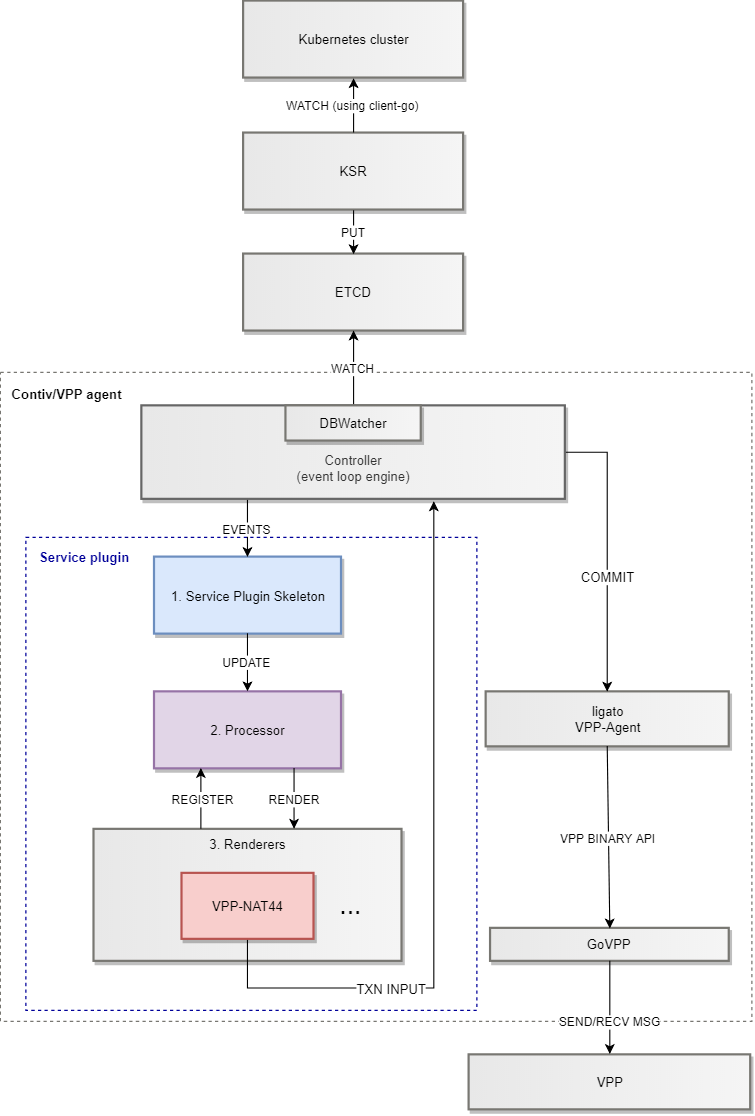
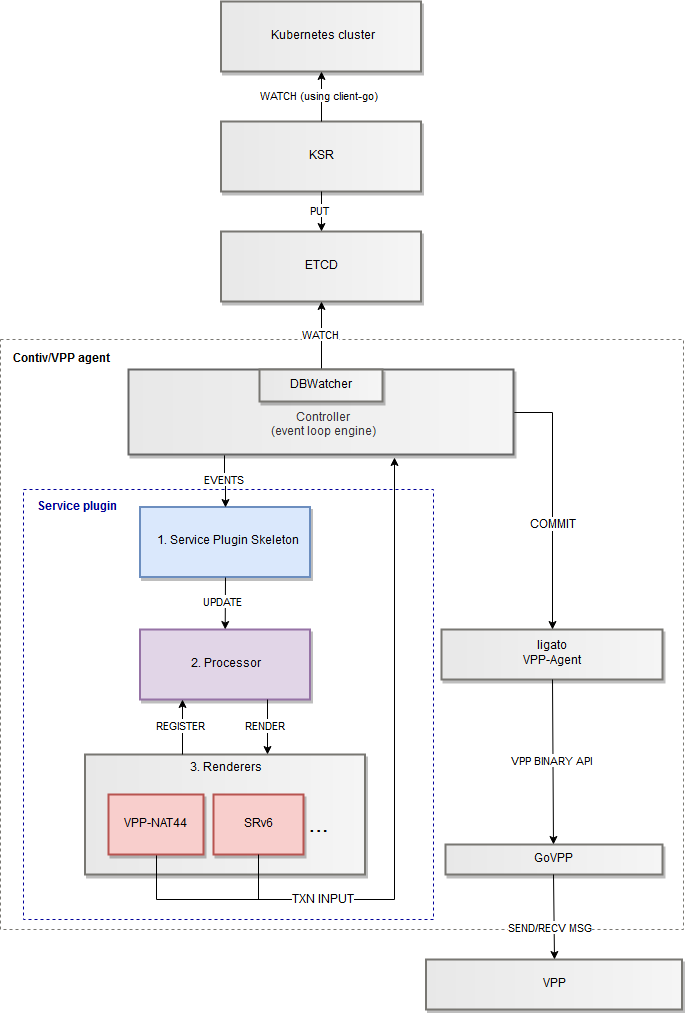
added documentation to SRv6 renderer

diff --git a/docs/dev-guide/SERVICES.md b/docs/dev-guide/SERVICES.md
@@ -376,25 +376,25 @@ bottom of the stack a set of NAT rules is calculated and installed into the VPP
 by the Ligato/vpp-agent.
 
 The Service plugin consists of two components: the Policy Processor that matches
-service metadata with endpoints and the NAT44 Renderer that maps service
-data received from the Processor into [protobuf-modelled][nat-model] NAT44
-configuration for the Ligato/vpp-agent to install in the VPP.
+service metadata with endpoints and the Renderer (NAT44 or SRv6) that maps service
+data received from the Processor into configuration ( [protobuf-modelled][nat-model] 
+NAT44 or [protobuf-modelled][srv6-model] SRv6) for the Ligato/vpp-agent to install 
+in the VPP.
 
-The plugin, however, is not restricted to VPP-NAT based implementation
+The plugin, however, is not restricted to VPP-NAT/SRv6 based implementation
 of Kubernetes services. The southbound of the processor is connected to
 the northbound of the renderer(s) via a generic [renderer API][renderer-api].
 The interface allows to have alternative and/or complementary Kubernetes service
-implementations via one or multiple plugged renderers. For example, in the near
-future it is planned to support both IPv4 and IPv6 protocols. For services,
-the two protocols could be handled separately by two different renderers.
-Similarly, the set of supported vswitches in the data plane could be extended
-simply by adding new renderers for services and policies. Another use-case is
-to provide alternative implementation of Kubernetes services for the same
-stack - one being the default, others possibly experimental or tailor-made for
-specific applications. The set of renderers to be activated can be configurable
-or determined from the environment. Every active renderer is given the same set
-of data from the processor and it is up to them to split the input and produce
-a complementary output. Currently, the NAT44 Renderer is the only implementation
+implementations via one or multiple plugged renderers. For example, NAT44 handles
+IPv4 protocol and SRv6 handles IPv6 protocol.Similarly, the set of supported 
+vswitches in the data plane could be extended simply by adding new renderers 
+for services and policies. Another use-case is to provide alternative 
+implementation of Kubernetes services for the same stack - one being the default, 
+others possibly experimental or tailor-made for specific applications. The set of 
+renderers to be activated can be configurable or determined from the environment. 
+Every active renderer is given the same set of data from the processor and it is 
+up to them to split the input and produce a complementary output. Currently, 
+the NAT44 Renderer(for IPv4) and SRv6 (for IPv6) are the only implementations 
 of Renderer API shipped with the plugin.
 
 The Renderer API defines server as an instance of `ContivService` - a structure
@@ -412,7 +412,7 @@ The [Service Plugin Skeleton][service-plugin-skeleton] implements the
 [Ligato plugin API][cn-infra], which makes it pluggable with the Ligato
 CN-Infra framework.
 
-Inside the Service Plugin's `Init()` method both Processor and NAT44 Renderer
+Inside the Service Plugin's `Init()` method both Processor and Renderer
 are initialized and dependency injection is performed - at the very minimum,
 every layer must depend on at least the layer below so that it can pass
 transformed data further down the stack.
@@ -420,7 +420,7 @@ transformed data further down the stack.
 Additionally, the plugin itself is an [event handler][event-handler], registered
 into the main [event loop][event-loop-guide] of the Contiv agent *after* the
 [ipnet plugin][ipnet-plugin]. This ensures that connectivity between pods
-and the VPP is established before any NAT rules are installed.
+and the VPP is established before any Renderer configuration is installed.
 
 The Service plugin reads the state of 2 Kubernetes [resources][db-resources]
 reflected into `etcd` by KSR and delegated to the plugin by resync and
@@ -504,6 +504,140 @@ periodically cleaning up inactive NAT sessions.
 
 ![NAT configuration example][nat-configuration-diagram]
 
+#### SRv6 Renderer
+
+The SRv6 Renderer maps `ContivService` instances into the corresponding [SRv6 model][srv6-model]
+instances that are then installed into VPP by the Ligato/vpp-agent. The SRv6 is 
+Segment routing on IPv6 protocol (see [srv6][srv6-ietf]), therefore you must enable 
+the [IPv6 support][ipv6-setup] in Contiv to be able to use the SRv6 renderer. Also you must enable
+it in `manifest.yaml` together with noOverlay mode:
+```
+apiVersion: v1
+kind: ConfigMap
+metadata:
+  name: contiv-agent-cfg
+  namespace: kube-system
+data:
+  contiv.conf: |-
+    useNoOverlay: true
+    useSRv6Interconnect: true
+    ...
+```
+`manifest.yaml` file is generated by Helm, so you can alternatively change the helm template 
+input values in [values.yaml][values.yaml] (or [values-arm64.yaml][values-arm64.yaml])
+```
+...
+contiv:
+  useNoOverlay: false
+  useSRv6Interconnect: false
+  ...
+```  
+and generate `manifest.yaml` with Helm.
+
+
+The basic idea behind segment routing is to cut the packet route into smaller routes, called segments. 
+The SRv6 implementation of service will use these segments to properly route packet to service backends.
+The packet flow looks like this:
+![srv6-renderer-communication-from-pod][srv6-renderer-communication-from-pod]
+  
+The user of service is pod 1. The packet with destination of the service IP address is steered into the SRv6 
+policy. The policy contains 1 path (list of segments) to each backend. The weighted loadbalancing happens 
+(all routes have equal waight) and one segment list is used. 
+- if pod 2 on node 1 is choosen:  
+The route consists only of one segment, the segment with segment id starting with 6666 (segment id is an ipv6 address). 
+The IPv6 routing forwards the packet to the segment end (LocalSid-DX6) that decapsulates the packet (it was encapsulated in the policy, think of it as tunnel)
+and crossconnect it to the interface to pod 2 (using IPv6 as next hop) 
+- if the host backend on node 1 is choosen:  
+Basically the same, but IPv6 routing forwards it to different place where LocalSid is located.  
+- if pod2 on node 2 is choosen:  
+The route consists of 2 segments. The first segment will transport the packet to correct node 
+(segment end in Localsid-End), but the segment end will not decapsulate packet but route it 
+to the next segment end. The second segment end will decapsulate the packet and route it to the correct
+backend pod as in previous case.
+- if the host on node 2 is choosen:  
+Similar to previous cases.
+
+Special case for SRv6 service is when service is used from host:
+![srv6-renderer-communication-from-host][srv6-renderer-communication-from-host]
+
+The loadbalancing is not done by using SRv6, but is done in the k8s proxy. So basically we fallback
+to the ipv6 routing to choosen backend. In case of local backend, the ipv6 routing will handle it without
+using the srv6 components. In the case of remote backend, the srv6 is used to transport packet to the correct 
+node, but there the pure ipv6 takes routing to the correct backend.
+
+The path of the packet returning from the backend in all the SRv6 service cases looks basically as in the host special
+case when it went to the remote backend: the srv6 handles only the node-to-node communication and 
+the rest is handled by the pure ipv6 routing.
+
+In case of problems, you can check the vswitch logs for the setting of steering, policy and localsids in the transactions:
+```
+          - key: config/vpp/srv6/v2/localsid/6666:0:0:1::5
+            val: { sid:"6666:0:0:1::5" installation_vrf_id:1 end_function_DX6:<outgoing_interface:"vpp-tap-d6087568be9f59aba028955c19f5684055a69d926ed89f720fe187a" next_hop:"2001:0:0:1::5" >  }
+          - key: config/vpp/srv6/v2/policy/5555::d765
+            val: { bsid:"5555::d765" srh_encapsulation:true segment_lists:<weight:1 segments:"6666:0:0:1::5" >  }
+          - key: config/vpp/srv6/v2/steering/forK8sService-default-myservice
+            val: { name:"forK8sService-default-myservice" policy_bsid:"5555::d765" l3_traffic:<installation_vrf_id:1 prefix_address:"2096::d765/128" >  }
+```
+or look directly into the vpp using CLI and list the installed srv6 components:
+```
+vpp# sh sr steering-policies 
+SR steering policies:
+Traffic		SR policy BSID
+L3 2096::a/128	5555::a
+L3 2096::5ce9/128	5555::5ce9
+L3 2096::1/128	5555::1
+L3 2096::6457/128	5555::6457
+L3 2096::d765/128	5555::d765
+```
+```
+vpp# sh sr policies 
+SR policies:
+[0].-	BSID: 5555::a
+	Behavior: Encapsulation
+	Type: Default
+	FIB table: 0
+	Segment Lists:
+  	[0].- < 6666:0:0:1::2 > weight: 1
+  	[1].- < 6666:0:0:1::3 > weight: 1
+-----------
+[1].-	BSID: 5555::5ce9
+	Behavior: Encapsulation
+	Type: Default
+	FIB table: 0
+	Segment Lists:
+  	[2].- < 6655::1 > weight: 1
+-----------
+...
+-----------
+[4].-	BSID: 5555::d765
+	Behavior: Encapsulation
+	Type: Default
+	FIB table: 0
+	Segment Lists:
+  	[5].- < 6666:0:0:1::5 > weight: 1
+  	[6].- < 6666:0:0:1::6 > weight: 1
+-----------
+...
+```
+```
+vpp# sh sr localsids 
+SRv6 - My LocalSID Table:
+=========================
+	Address: 	7766:f00d::1
+	Behavior: 	End
+	Good traffic: 	[0 packets : 0 bytes]
+	Bad traffic:  	[0 packets : 0 bytes]
+--------------------
+...
+--------------------
+	Address: 	6666:0:0:1::5
+	Behavior: 	DX6 (Endpoint with decapsulation and IPv6 cross-connect)
+	Iface:  	tap4
+	Next hop: 	2001:0:0:1::5
+	Good traffic: 	[0 packets : 0 bytes]
+	Bad traffic:  	[0 packets : 0 bytes]
+--------------------
+```
 
 [layers-diagram]: services/service-plugin-layers.png "Layering of the Service plugin"
 [nat-configuration-diagram]: services/nat-configuration.png "NAT configuration example"
@@ -520,6 +654,7 @@ periodically cleaning up inactive NAT sessions.
 [processor-data-resync]: http://github.com/contiv/vpp/tree/master/plugins/service/processor/data_resync.go
 [renderer-api]: http://github.com/contiv/vpp/blob/master/plugins/service/renderer/api.go
 [nat-model]: https://github.com/ligato/vpp-agent/blob/dev/api/models/vpp/nat/nat.proto
+[srv6-model]: https://github.com/ligato/vpp-agent/blob/dev/api/models/vpp/srv6/srv6.proto
 [vpp-agent-nat-plugin]: https://github.com/ligato/vpp-agent/tree/dev/plugins/vpp/natplugin
 [controller-plugin]: https://github.com/contiv/vpp/blob/master/plugins/controller/plugin_controller.go
 [transaction-api]: https://github.com/contiv/vpp/blob/master/plugins/controller/api/txn.go
@@ -538,4 +673,10 @@ periodically cleaning up inactive NAT sessions.
 [event-loop-guide]: EVENT_LOOP.md
 [event-handler]: EVENT_LOOP.md#event-handler
 [db-resources]: https://github.com/contiv/vpp/tree/master/dbresources
+[srv6-ietf]: https://tools.ietf.org/html/rfc8402#section-8.2
+[ipv6-setup]: https://github.com/contiv/vpp/blob/master/docs/setup/IPV6.md
+[values.yaml]: https://github.com/contiv/vpp/blob/master/k8s/contiv-vpp/values.yaml
+[values-arm64.yaml]: https://github.com/contiv/vpp/blob/master/k8s/contiv-vpp/values-arm64.yaml
+[srv6-renderer-communication-from-pod]: services/srv6-renderer-communication-from-pod.png "SRv6 service communication originating in pod"
+[srv6-renderer-communication-from-host]: services/srv6-renderer-communication-from-host.png "SRv6 service communication originating in host"
 
